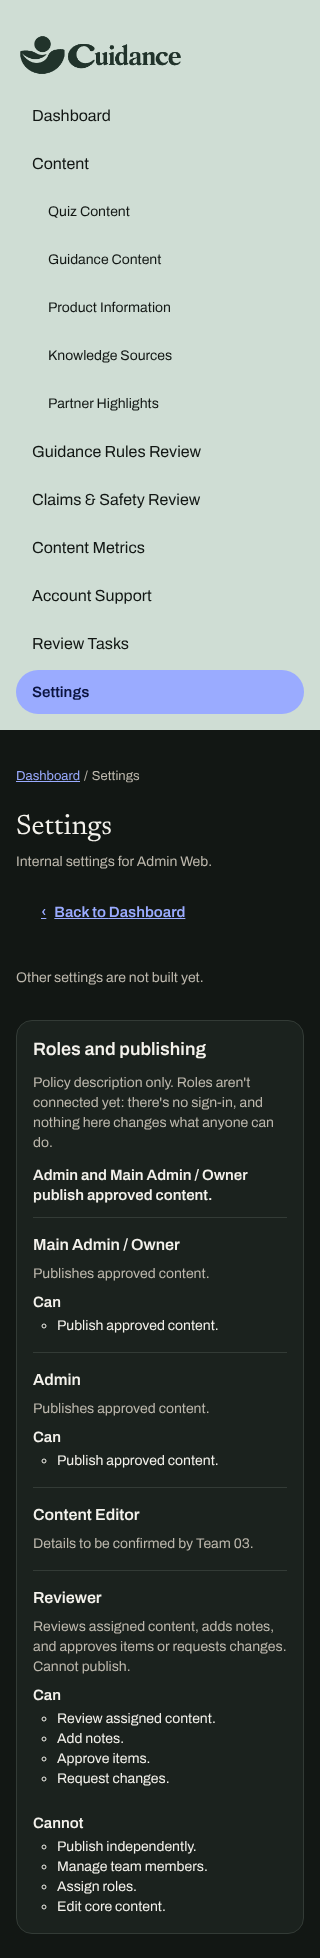
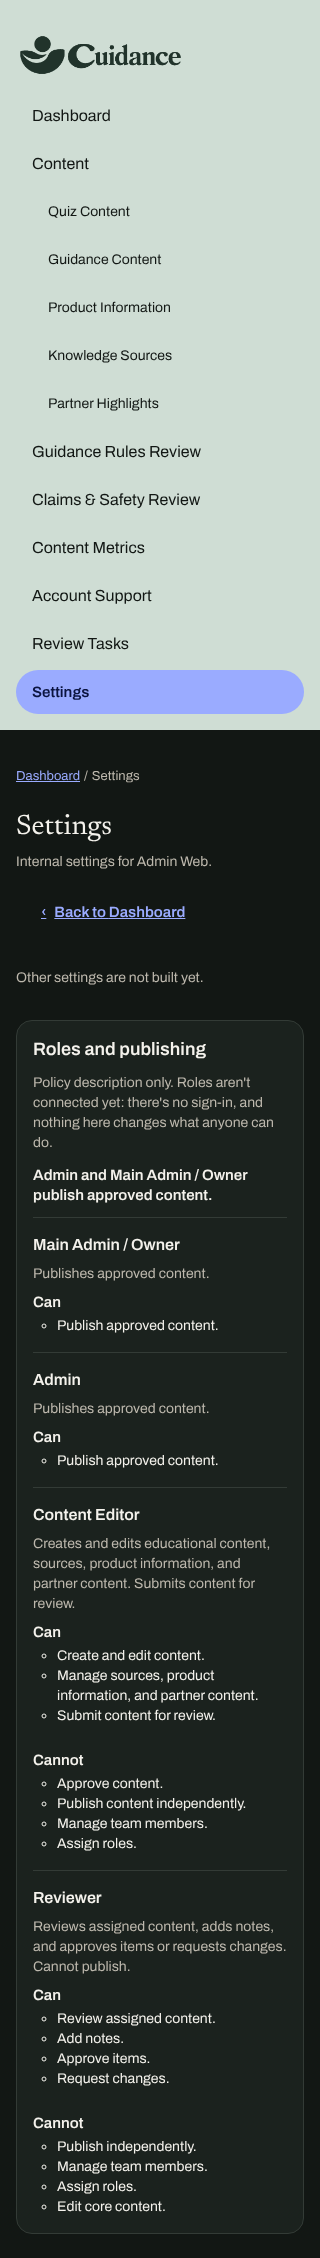
Add approved Content Editor wording to the roles policy
Replaces the "to be confirmed" placeholder with Team 03's wording in the
shared roles file, so Settings and the /dev/ preview match. Updates the
implementation note and the Settings screenshots.

Claude-Session: https://claude.ai/code/session_01G2wYwUJdDpMZsqBVJSwRsJ

Changed region(s): [[0.0, 0.0, 1.0, 0.9969], [0.0312, 0.4673, 0.0625, 0.5296]]

diff --git a/shared/content/admin-roles.ts b/shared/content/admin-roles.ts
@@ -40,8 +40,14 @@ export const adminRoles: AdminRole[] = [
   {
     id: 'content-editor',
     name: 'Content Editor',
-    // Team 03 hasn't supplied this role's permissions yet. Don't fill them in without that wording.
-    summary: 'Details to be confirmed by Team 03.',
+    summary:
+      'Creates and edits educational content, sources, product information, and partner content. Submits content for review.',
+    can: [
+      'Create and edit content.',
+      'Manage sources, product information, and partner content.',
+      'Submit content for review.',
+    ],
+    cannot: ['Approve content.', 'Publish content independently.', 'Manage team members.', 'Assign roles.'],
   },
   {
     id: 'reviewer',

diff --git a/docs/Week-10/theme-responsive-roles-implementation.md b/docs/Week-10/theme-responsive-roles-implementation.md
@@ -2,7 +2,7 @@
 
 - **Branch:** `feat/admin-web-theme-responsive`, from `main` at `2d929b7` (after PR #10)
 - **Date:** Nov 5, 2026
-- **Prepared by:** Claude Code for Team 03. **Needs review by Alyssa and Esme.** Items marked PROVISIONAL or TO CONFIRM need a Team 03 decision.
+- **Prepared by:** Claude Code for Team 03. **Needs review by Alyssa and Esme.** Items marked PROVISIONAL need a Team 03 decision.
 - **Not included:** Supabase, sign-in, live permissions, invitations, account creation, profile or avatar artwork, new routes, new dependencies, and Cuidance Mobile changes.
 
 ## 1. Theme control (Light, Dark or System)
@@ -62,7 +62,7 @@ Every main page was measured at **1440, 1280, 1024, 900, 834, 768, 767, 600, 480
 | --- | --- |
 | Main Admin / Owner | Publishes approved content |
 | Admin | Publishes approved content |
-| Content Editor | **TO CONFIRM:** "Details to be confirmed by Team 03." No Content Editor definition was supplied, so none was written |
+| Content Editor | Creates and edits educational content, sources, product information, and partner content. Submits content for review. **Can:** create and edit content; manage sources, product information, and partner content; submit content for review. **Cannot:** approve content, publish content independently, manage team members, assign roles |
 | Reviewer | **Can:** review assigned content, add notes, approve items, request changes. **Cannot:** publish independently, manage team members, assign roles, edit core content |
 
 - **Publishing rule shown on the card:** "Admin and Main Admin / Owner publish approved content."
@@ -102,7 +102,7 @@ Every main page was measured at **1440, 1280, 1024, 900, 834, 768, 767, 600, 480
 | Keyboard | Tab reaches Theme after Settings, with a visible focus ring. The arrow keys change it and the page updates. On mobile: Menu, then the links, then Theme |
 | Short screens (1440 × 560, 834 × 600) | Sidebar scrolls; Theme control reachable |
 | No JavaScript | Device setting applies, Theme control hidden, all 13 sidebar links visible, roles card shown, no overflow, at 1440 and 320 px |
-| Roles wording | Settings and `/dev/` cards are identical. The Team access table lists the four roles. No em dashes |
+| Roles wording | Settings and `/dev/` cards are identical, including the approved Content Editor wording. The Team access table lists the four roles with the same summaries. No em dashes |
 | Responsive audit (12 widths) | No problems after the 1280 px fix |
 | Dev server | No hydration warnings or errors in the theme cases (System, Light, Dark, and each against the device). The only console messages were the dev server's live-reload connection, which this sandbox blocks |
 | Dependencies | None added. No token values, logo assets or icons changed |
@@ -125,6 +125,5 @@ Screenshots in `docs/Week-10/evidence/`:
 
 | Item | Status |
 | --- | --- |
-| Content Editor permissions | **TO CONFIRM** with Team 03 |
 | Theme control placement and wording | Built as requested. Team 03 to confirm in review |
 | Status colors, Empty and Loading designs | **PROVISIONAL**, unchanged |
